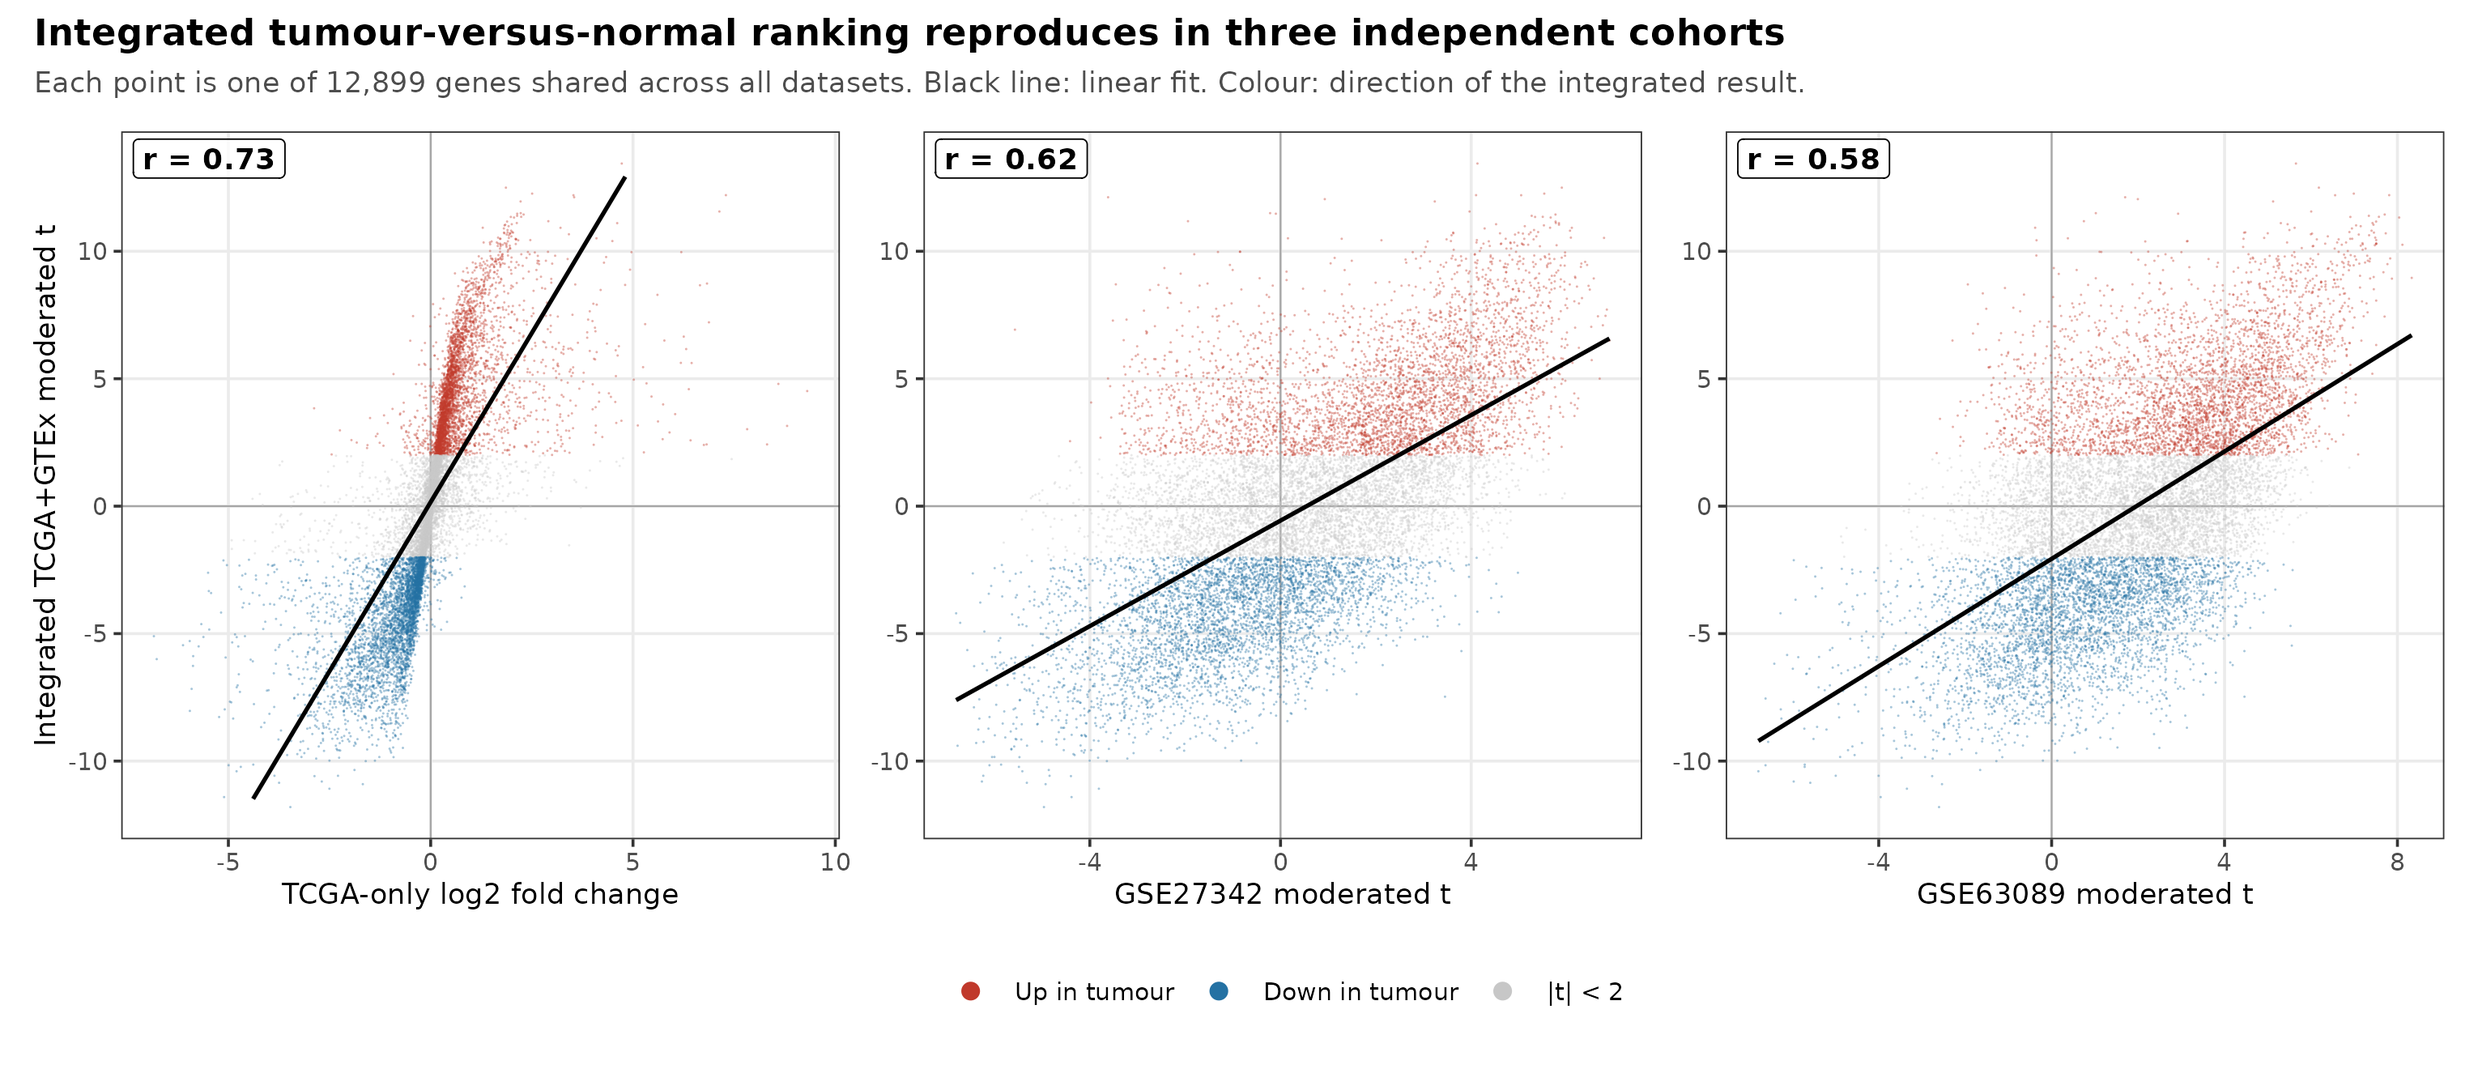
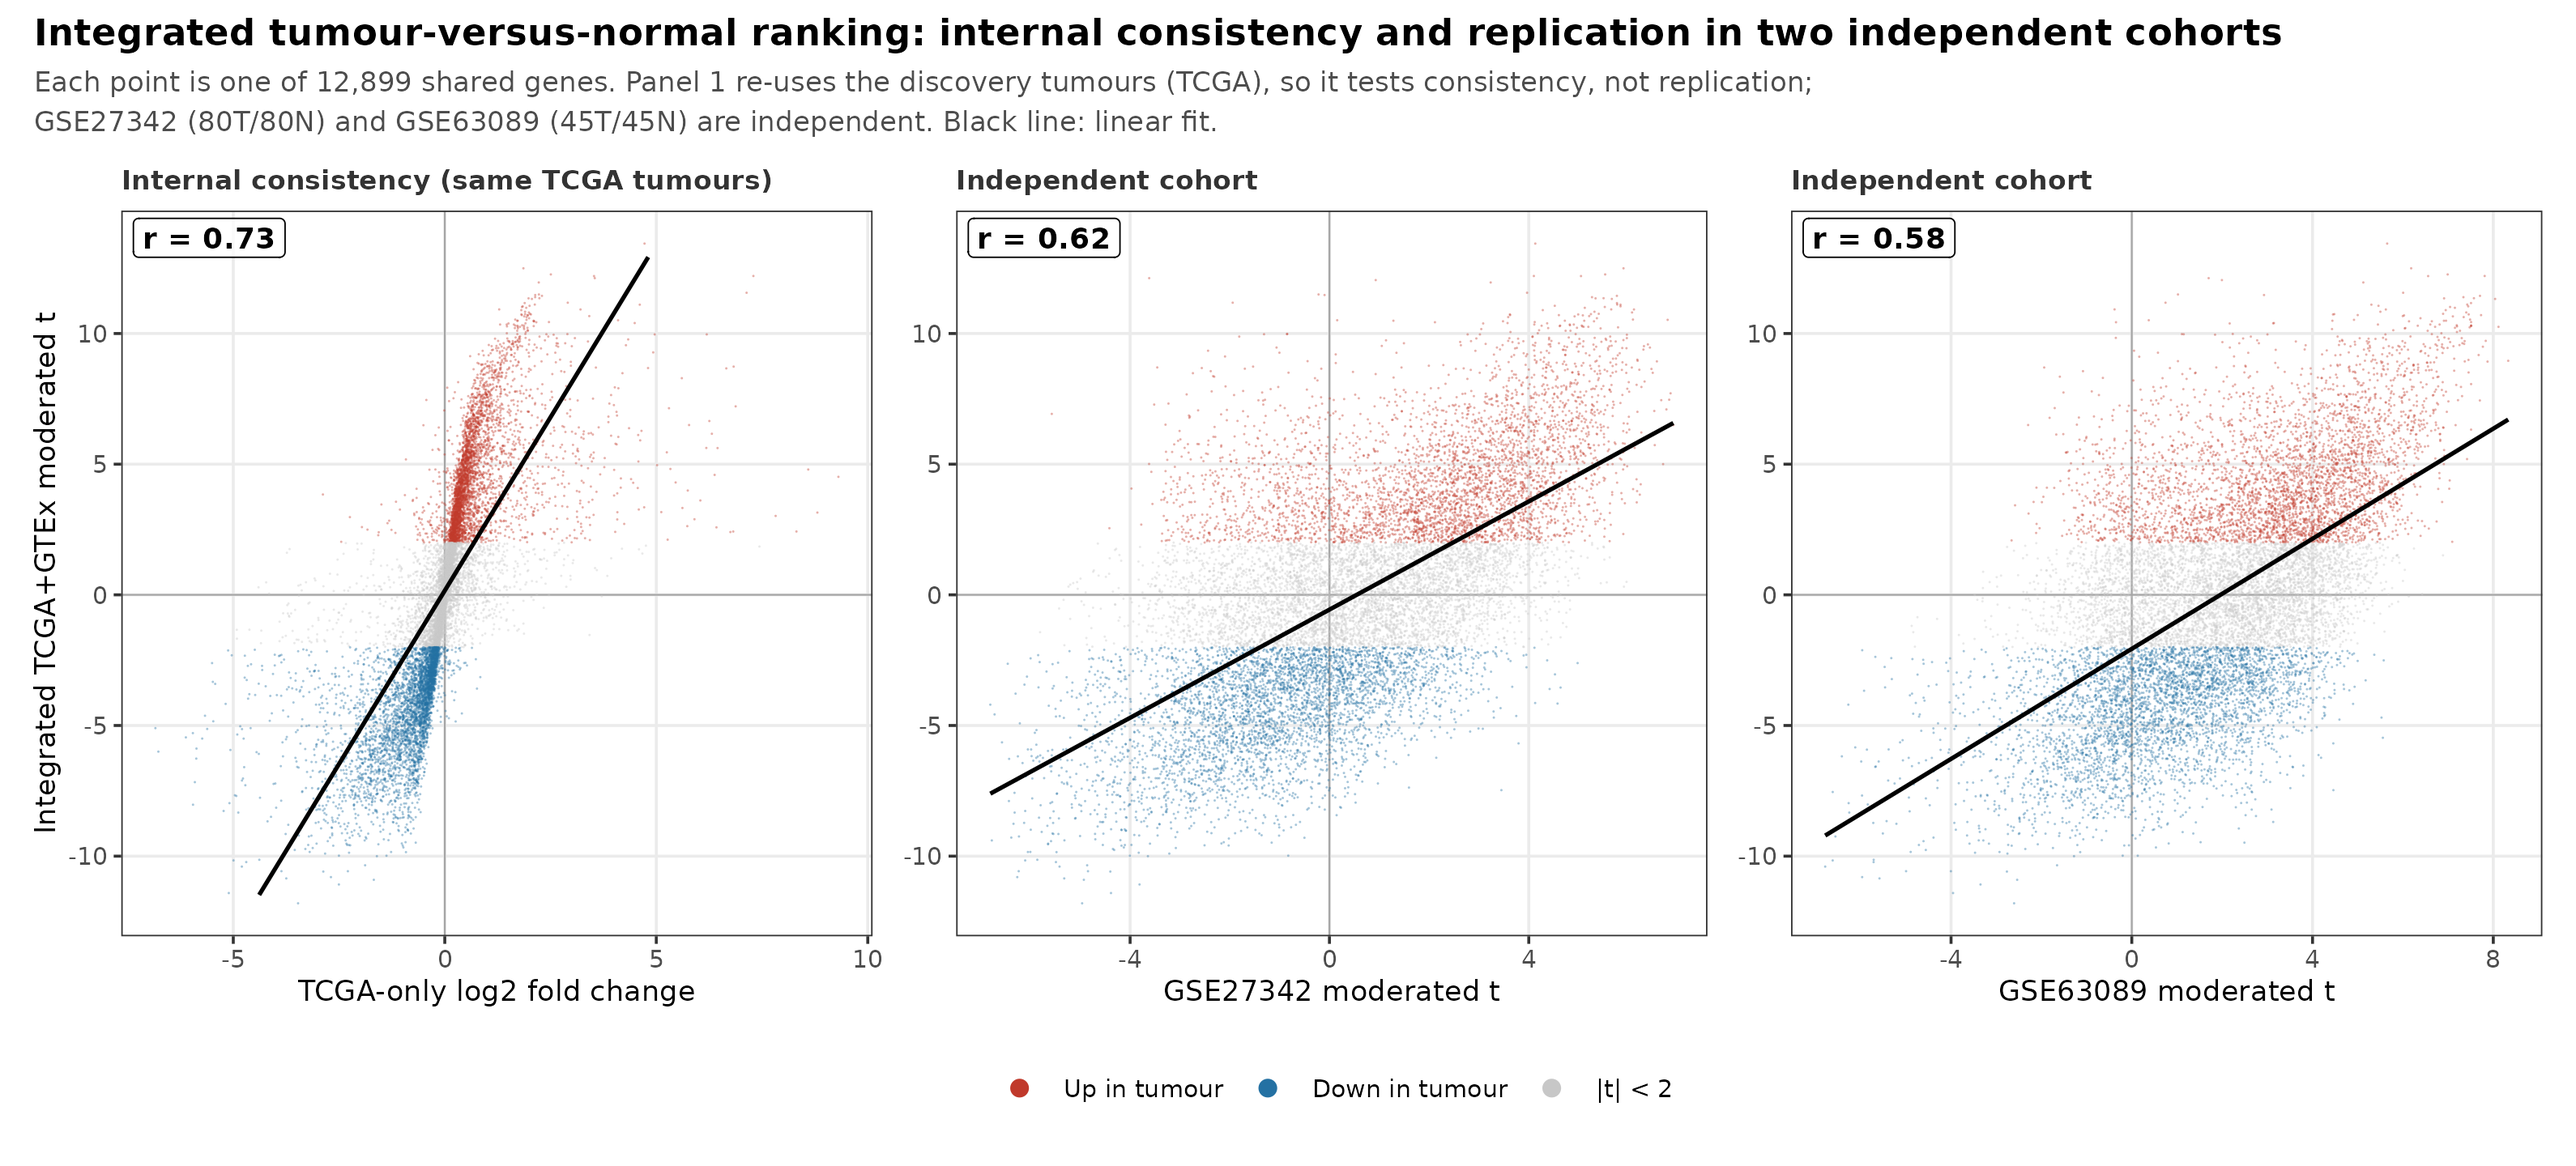
Add committed build script for concordance panel; correct 'three independent cohorts' claim; fix clipped titles; sync make_figures.R to shipped PNG

diff --git a/FIGURE_SOURCES.md b/FIGURE_SOURCES.md
@@ -46,3 +46,22 @@ value can be opened and verified independently. Every headline number traces to 
 
 assets/fonts/ contains Tinos (Apache-2.0), metric-compatible with Times New Roman,
 used for the graphical abstract because Times New Roman is not installed on the build host.
+
+## Figures added/rebuilt 2026-08-04
+
+| Figure file | Build script | Notes |
+|---|---|---|
+| `results/figures/deg_concordance_panel.png` | `analysis/23_deg_concordance_panel.R` | Was an orphan (no build script). Script asserts all three r values against `results/tables/DEG_integrated_concordance.csv`. **Panel 1 is internal consistency, not replication** — TCGA supplies the integrated contrast's own 412 tumours. |
+| `results/plots/transcriptome/deg_volcano.png` | R block in session log; data `res_tcga_df` in `data/processed/TCGA_STAD_processed.RData` | Labels moved outside the point cloud; subtitle now gives the biotype breakdown (16,164 protein-coding of 21,446 features). |
+| `results/plots/transcriptome/Lauren_volcano.png` | regenerated from `res_lauren_df` | Original PDF was an empty plot device (3,611 B, zero drawing ops). |
+| `results/figures/panels/Fig4A.png` | `make_figures.R` §4A | Title shortened to fit canvas. |
+| `results/figures/panels/Fig4C.png` | `make_figures.R` §4C | Title "(honest)" removed — editorialising, not a data label. |
+| `results/deg_diagnostics/batch_sensitivity_TSS.csv` | R block, session log | TSS batch-adjustment sensitivity: 92.7% of DEGs retained, logFC r = 0.974. |
+
+**Known cosmetic limitation (not a data defect).** The 12 MR scatter/leave-one-out plots
+under `results/mr_real/` and `results/mr_real_eas/` have their legend touching the bottom
+canvas edge. `analysis/11_real_mr.R` was patched (width 6 -> 7.5 in) but regenerating them
+requires a live OpenGWAS API token (`OPENGWAS_JWT`) plus network access to re-extract the
+harmonised SNP data, which is not cached locally. The plotted values are correct and are
+independently tabulated in `results/mr_real/MR_results_all_methods_REAL.csv`; the figures
+will pick up the wider canvas the next time the MR arm is re-run with a token.
